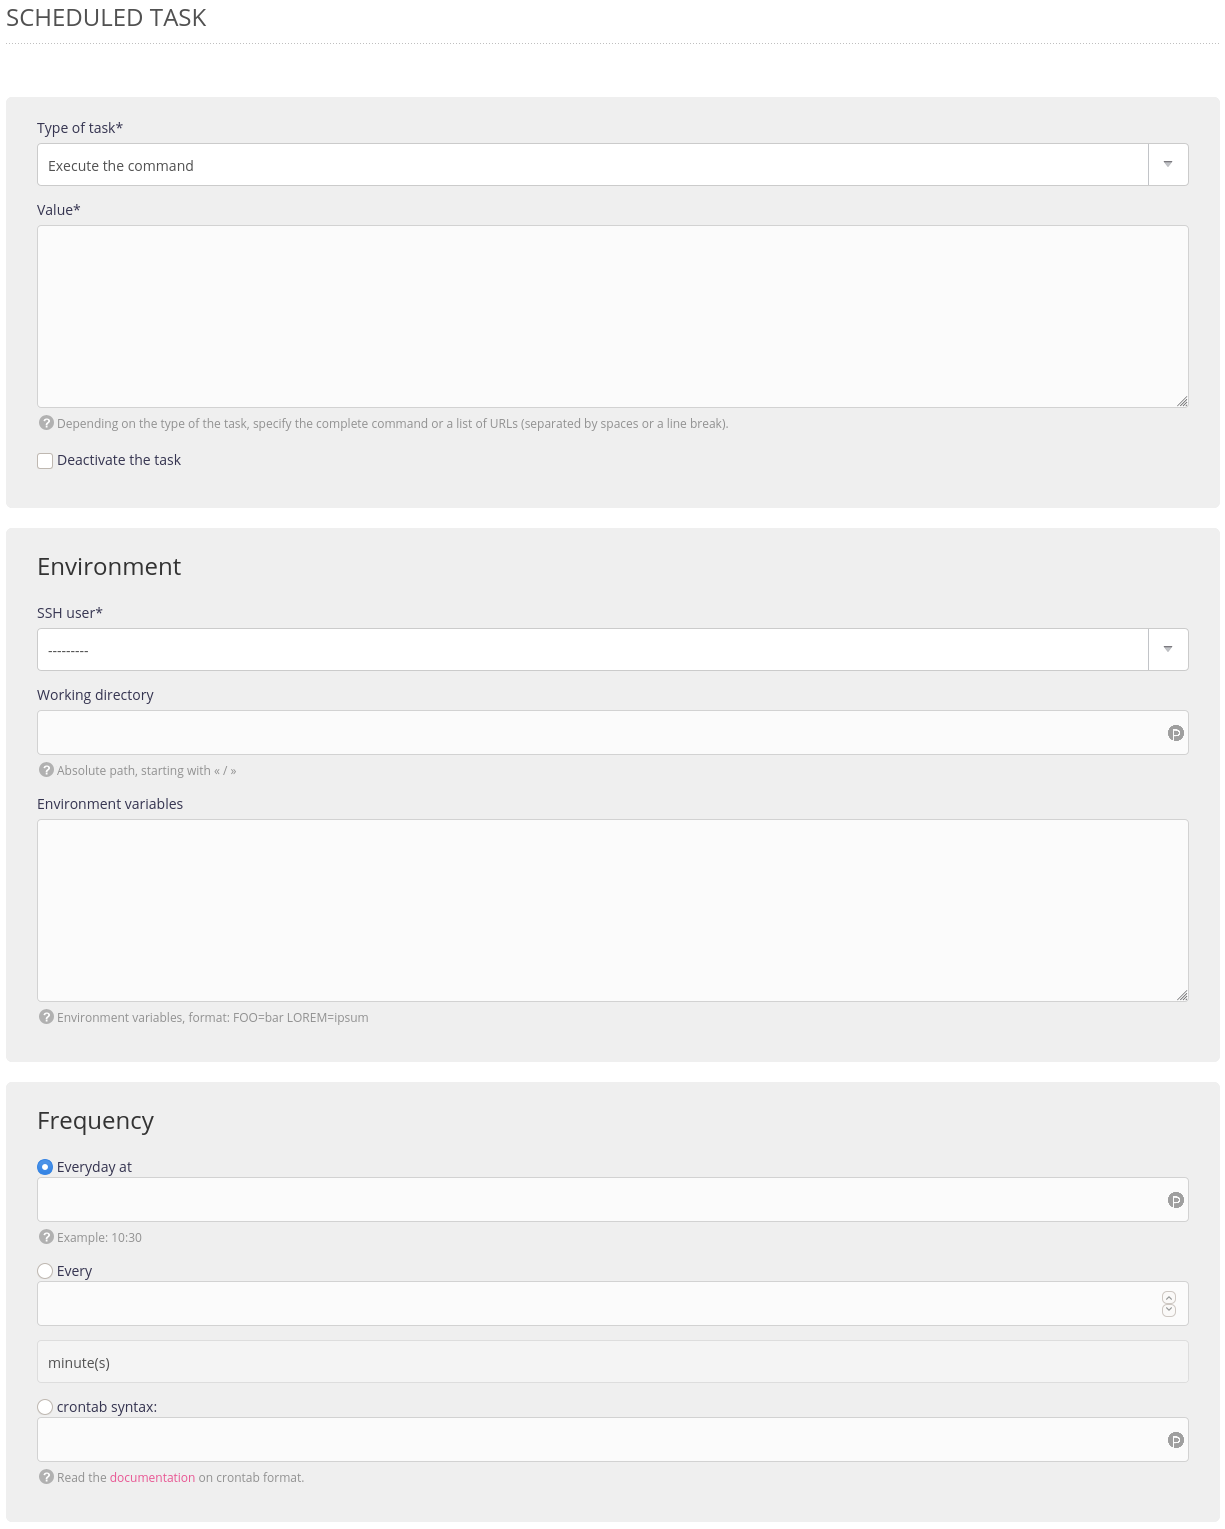
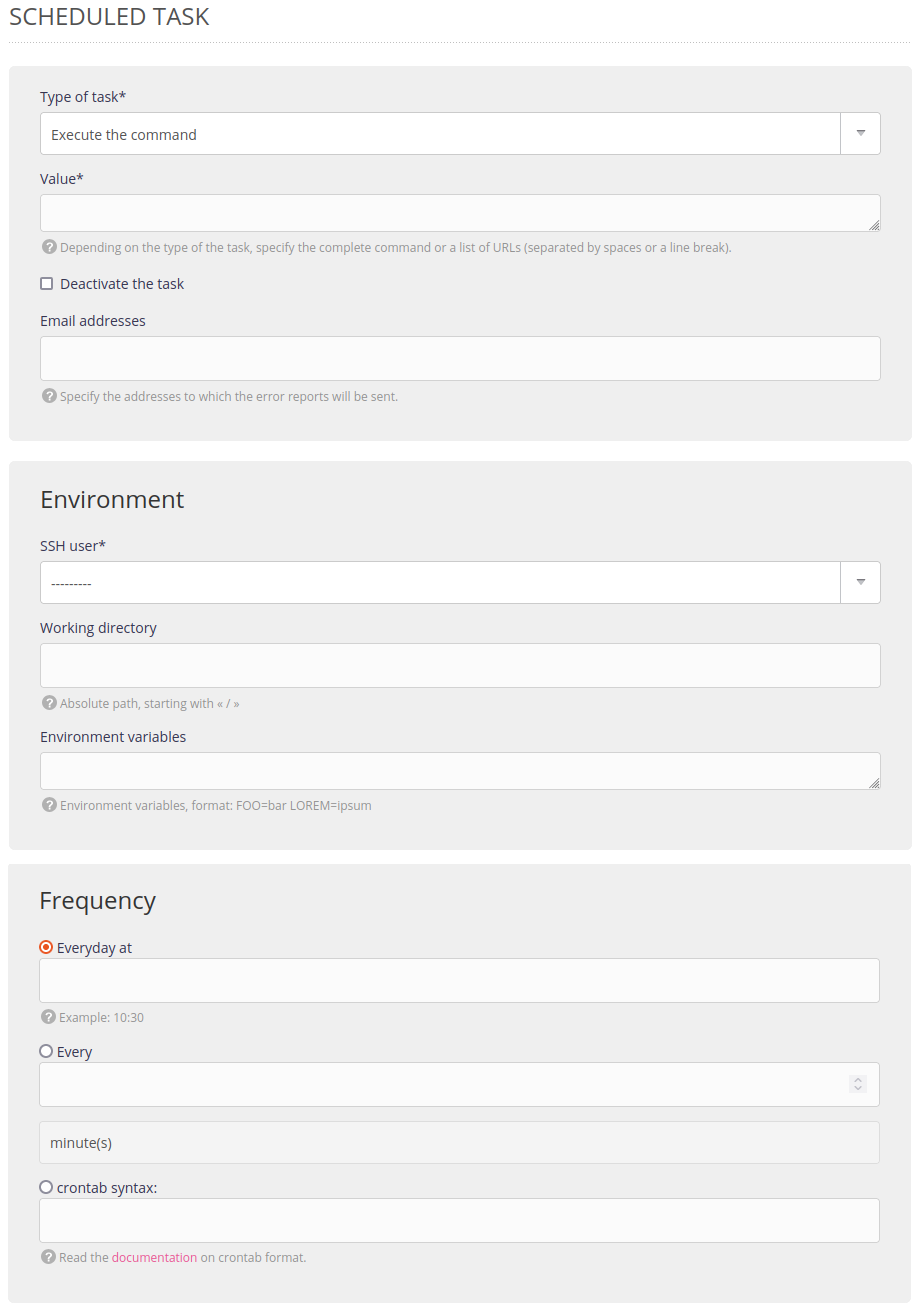
Scheduled tasks: adding error reports by email

diff --git a/content/tasks/_index.en.md b/content/tasks/_index.en.md
@@ -10,10 +10,15 @@ Web apps or services sometimes need to periodically run tasks, commands or call 
 
 Our platform is based on [Debian](https://www.debian.org/) and its [crontab](https://en.wikipedia.org/wiki/Cron) but allows them to be directly managed from our [administration interface](https://admin.alwaysdata.com) - menu **Advanced > Scheduled tasks** - making their use easier.
 
-Two kinds of information need to be provided:
+Several kinds of information need to be provided:
 
-- The one or more commands that you wish to run or the URLs you wish to request,
-- Task frequency: you can specify a fixed time or an interval.
+- the one or more commands that you wish to run or the URLs you wish to request,
+- the SSH environment,
+- the task frequency: you can specify a fixed time or an interval.
+
+{{% notice tip %}}
+Email addresses can also be filled in to receive error reports (separated by a space). They do not replace the execution logs already given in the `$HOME/admin/logs/jobs` directory.
+{{% /notice %}}
 
 {{< fig "admin-panel_create-task.en.png" "Administration interface: create a scheduled task" >}}
 
